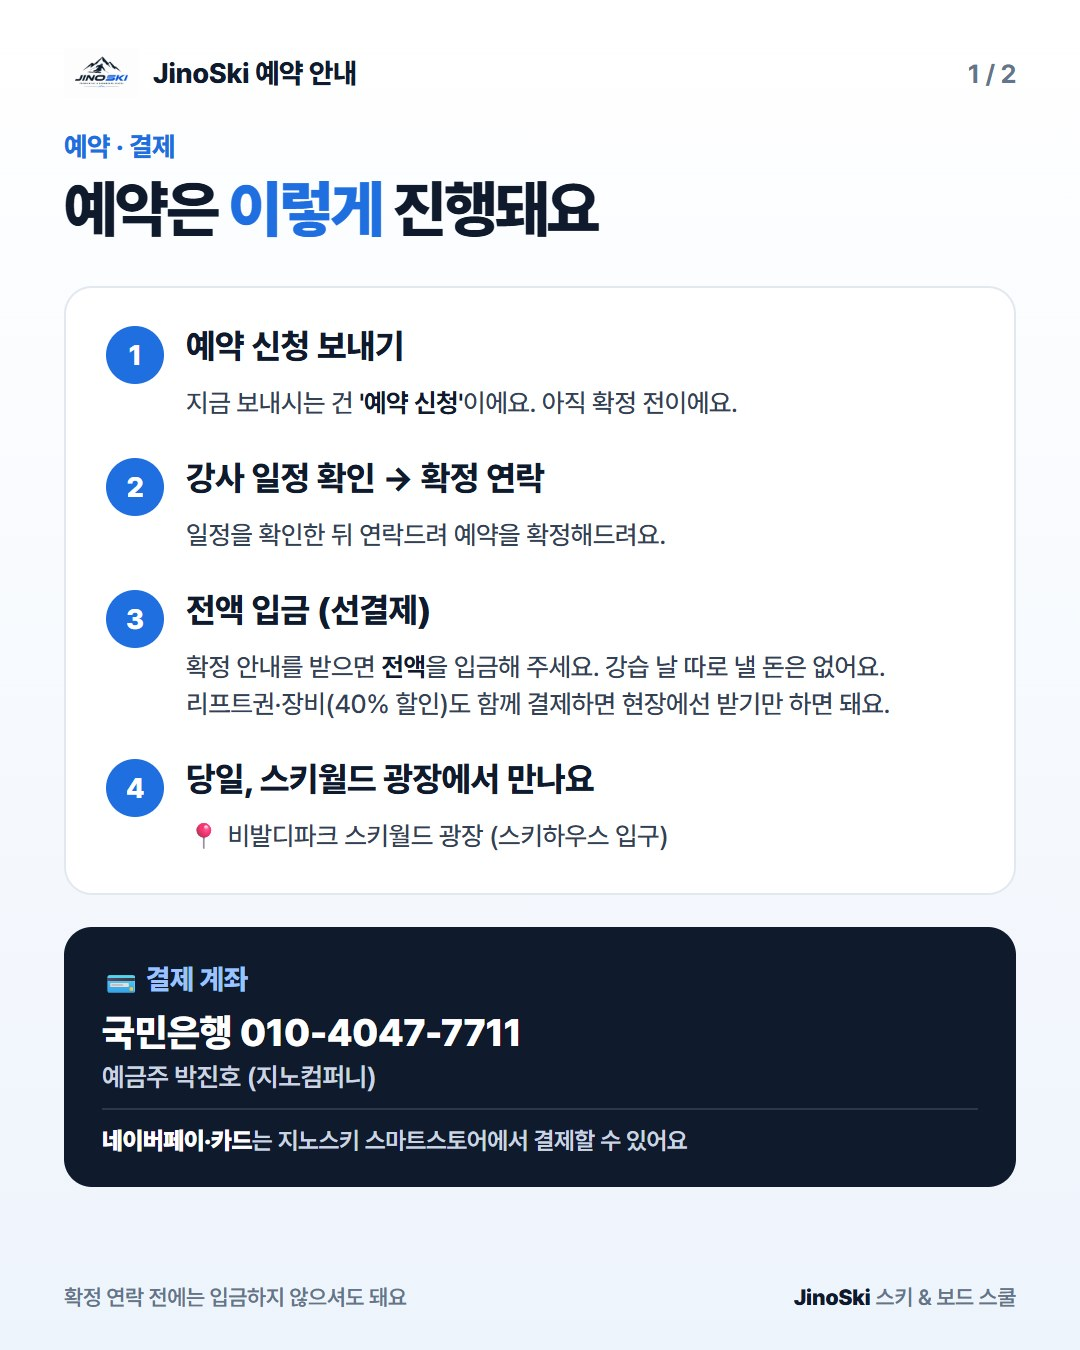
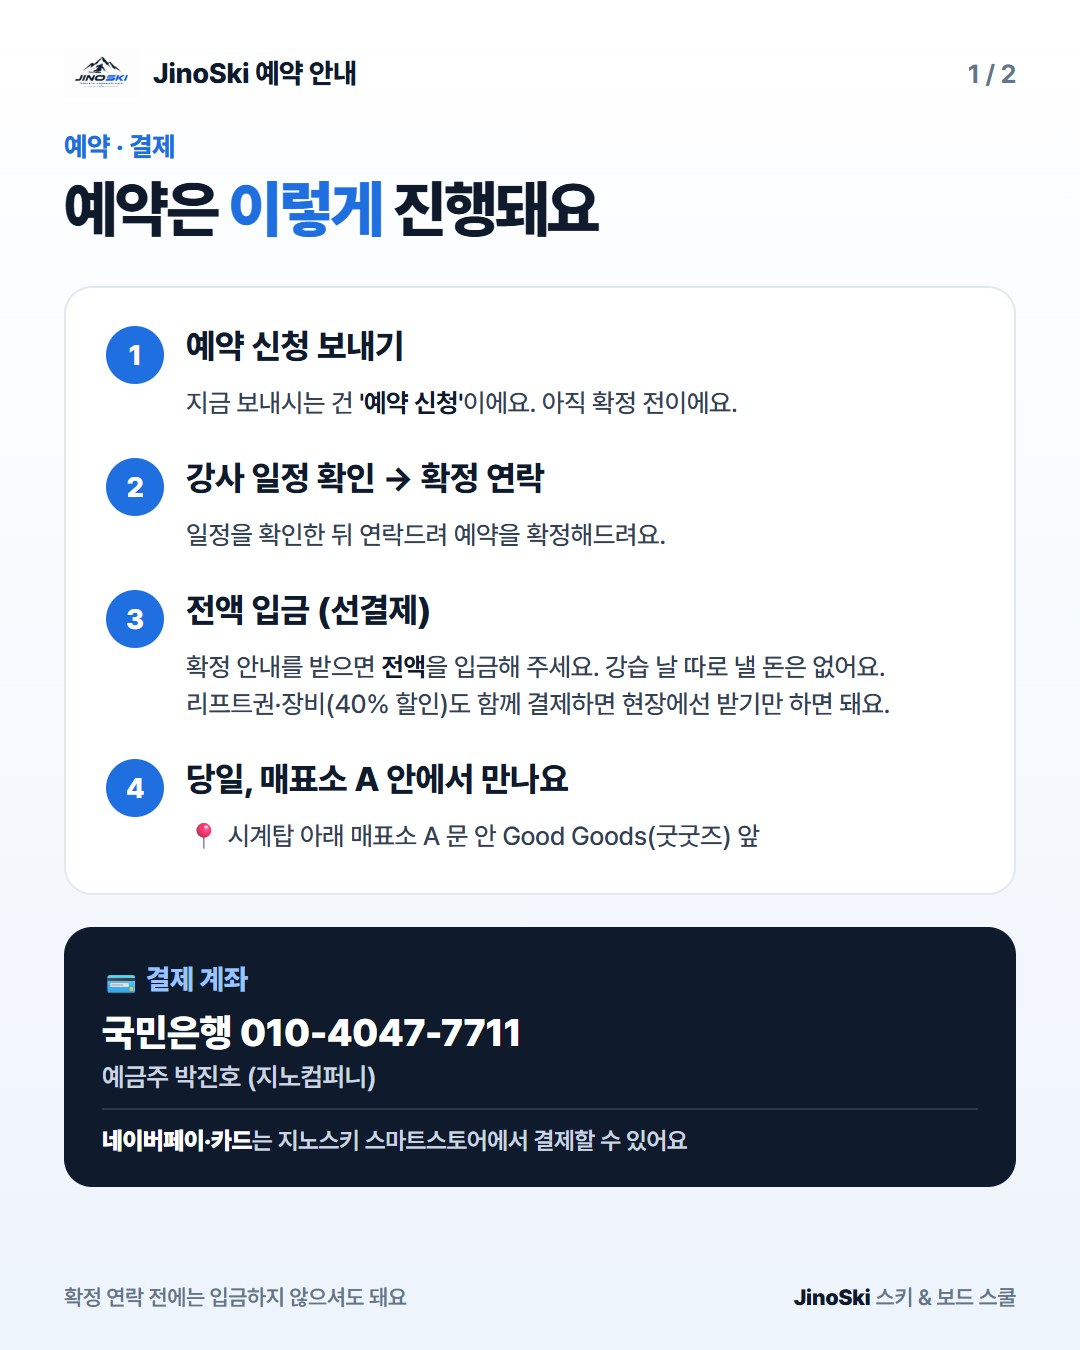
안내 그림 3장(예약 순서·예약 진행·오시는 길) 만나는 곳: 매표소 A 문 안 Good Goods 앞

Changed region(s): [[0.2139, 0.56, 0.7028, 0.6533]]

diff --git a/src/components/shared/guide-cards.tsx b/src/components/shared/guide-cards.tsx
@@ -214,12 +214,12 @@ export const SEASON_LINK_CARDS: GuideCard[] = [
 export const DAY_LESSON_CARDS: GuideCard[] = [
   { src: "/images/guide/day-1.jpg", regular: "/images/guide/day-1-regular.jpg", alt: "지노스키 하루 강습 요금표(강사 1명 기준) — 2시간 1:1 14만원·1:2 20만원·1:3 24만원, 3시간 21만·30만·36만원, 4시간 28만·40만·48만원, 7시간 풀케어 55만·70만·90만원(패찰·식사 포함). 패찰 1인 2시간 25,000원·3시간 35,000원·4시간 50,000원 별도. 리프트권·장비 정가 40% 할인, 매 수업 사진·영상 무료" },
   { src: "/images/guide/day-2.jpg", alt: "비발디파크 강습 시간표 — 2시간: 1교시 09:00~11:00, 2교시 11:00~13:00, 3교시 13:20~15:20, 4교시 15:30~17:30, 5교시(야간) 19:00~21:00. 3·4시간: 오전 09:00, 오후 13:20, 야간 19:00 시작. 원데이 풀케어 08:40~16:30, 나이트 풀케어 13:30~22:10" },
-  { src: "/images/guide/day-3.jpg", alt: "지노스키 예약 순서 — 홈페이지에서 날짜·프로그램·시간·인원·종목·실력 선택, 강사 일정 확인 후 확정 연락, 확정 후 전액 선결제(강습 날 현장에서 낼 돈 없음), 비발디파크 스키월드 광장 스키하우스 입구 집합. 환불 3일 전 100%·1~2일 전 50%·당일 불가, 2일 전까지 1회 무료 변경" },
+  { src: "/images/guide/day-3.jpg", alt: "지노스키 예약 순서 — 홈페이지에서 날짜·프로그램·시간·인원·종목·실력 선택, 강사 일정 확인 후 확정 연락, 확정 후 전액 선결제(강습 날 현장에서 낼 돈 없음), 시계탑 아래 매표소 A 문 안 Good Goods(굿굿즈) 앞 집합. 환불 3일 전 100%·1~2일 전 50%·당일 불가, 2일 전까지 1회 무료 변경" },
 ];
 
 /** 예약하기 마지막 단계·접수 화면 「예약은 이렇게 진행돼요」 */
 export const BOOKING_CARDS: GuideCard[] = [
-  { src: "/images/guide/booking-1.jpg", alt: "지노스키 예약 진행 순서 — 1 예약 신청(아직 확정 전), 2 강사 일정 확인 후 확정 연락, 3 확정 안내 후 전액 입금(선결제), 4 당일 비발디파크 스키월드 광장 집합. 네이버페이·카드는 지노스키 스마트스토어에서 결제" },
+  { src: "/images/guide/booking-1.jpg", alt: "지노스키 예약 진행 순서 — 1 예약 신청(아직 확정 전), 2 강사 일정 확인 후 확정 연락, 3 확정 안내 후 전액 입금(선결제), 4 당일 시계탑 아래 매표소 A 문 안 Good Goods(굿굿즈) 앞 집합. 네이버페이·카드는 지노스키 스마트스토어에서 결제" },
   { src: "/images/guide/booking-2.jpg", alt: "지노스키 취소·변경 규정 — 레슨 3일 전까지 전액 환불, 1~2일 전 50% 환불, 당일 취소·노쇼 환불 불가. 레슨 2일 전까지 1회 무료 일정 변경. 기상 악화로 슬로프가 닫히면 무료 변경 또는 전액 환불" },
 ];
 
@@ -261,7 +261,7 @@ export const JUNIOR_CARDS: GuideCard[] = [
 ];
 
 export const VIVALDI_CARDS: GuideCard[] = [
-  { src: "/images/guide/vivaldi-1.jpg", alt: "지노스키 집합 장소 — 비발디파크 스키월드 광장 스키하우스 입구(강원 홍천군 서면 한치골길 262), 레슨 20~30분 전 도착, 도착하면 카톡이나 010-4047-7711로 연락. 자가용·셔틀버스 오는 법" },
+  { src: "/images/guide/vivaldi-1.jpg", alt: "지노스키 집합 장소 — 비발디파크 시계탑 아래 매표소 A 문 안 Good Goods(굿굿즈) 앞(강원 홍천군 서면 한치골길 262), 레슨 20~30분 전 도착, 도착하면 카톡이나 010-4047-7711로 연락. 자가용·셔틀버스 오는 법" },
   { src: "/images/guide/vivaldi-2.jpg", alt: "패찰·리프트권·장비 렌탈 안내 — 패찰(강습 허가권) 1인 2시간 25,000원·3시간 35,000원·4시간 50,000원, 레슨 뒤 더 타려면 개인 리프트권 필요, 아이 장비는 키·몸무게 알려주기, 리프트·장비 지노스키 예약 시 40% 할인" },
   { src: "/images/guide/vivaldi-3.jpg", alt: "스키 강습 준비물 — 방수 스키복, 장갑, 고글, 넥워머, 여벌 양말, 간식·물, 휴대폰 방수팩. 산 위는 영하 10도 이하인 날이 많아 여러 겹 입기, 폭설·강풍으로 슬로프가 닫히면 변경 또는 전액 환불" },
 ];
